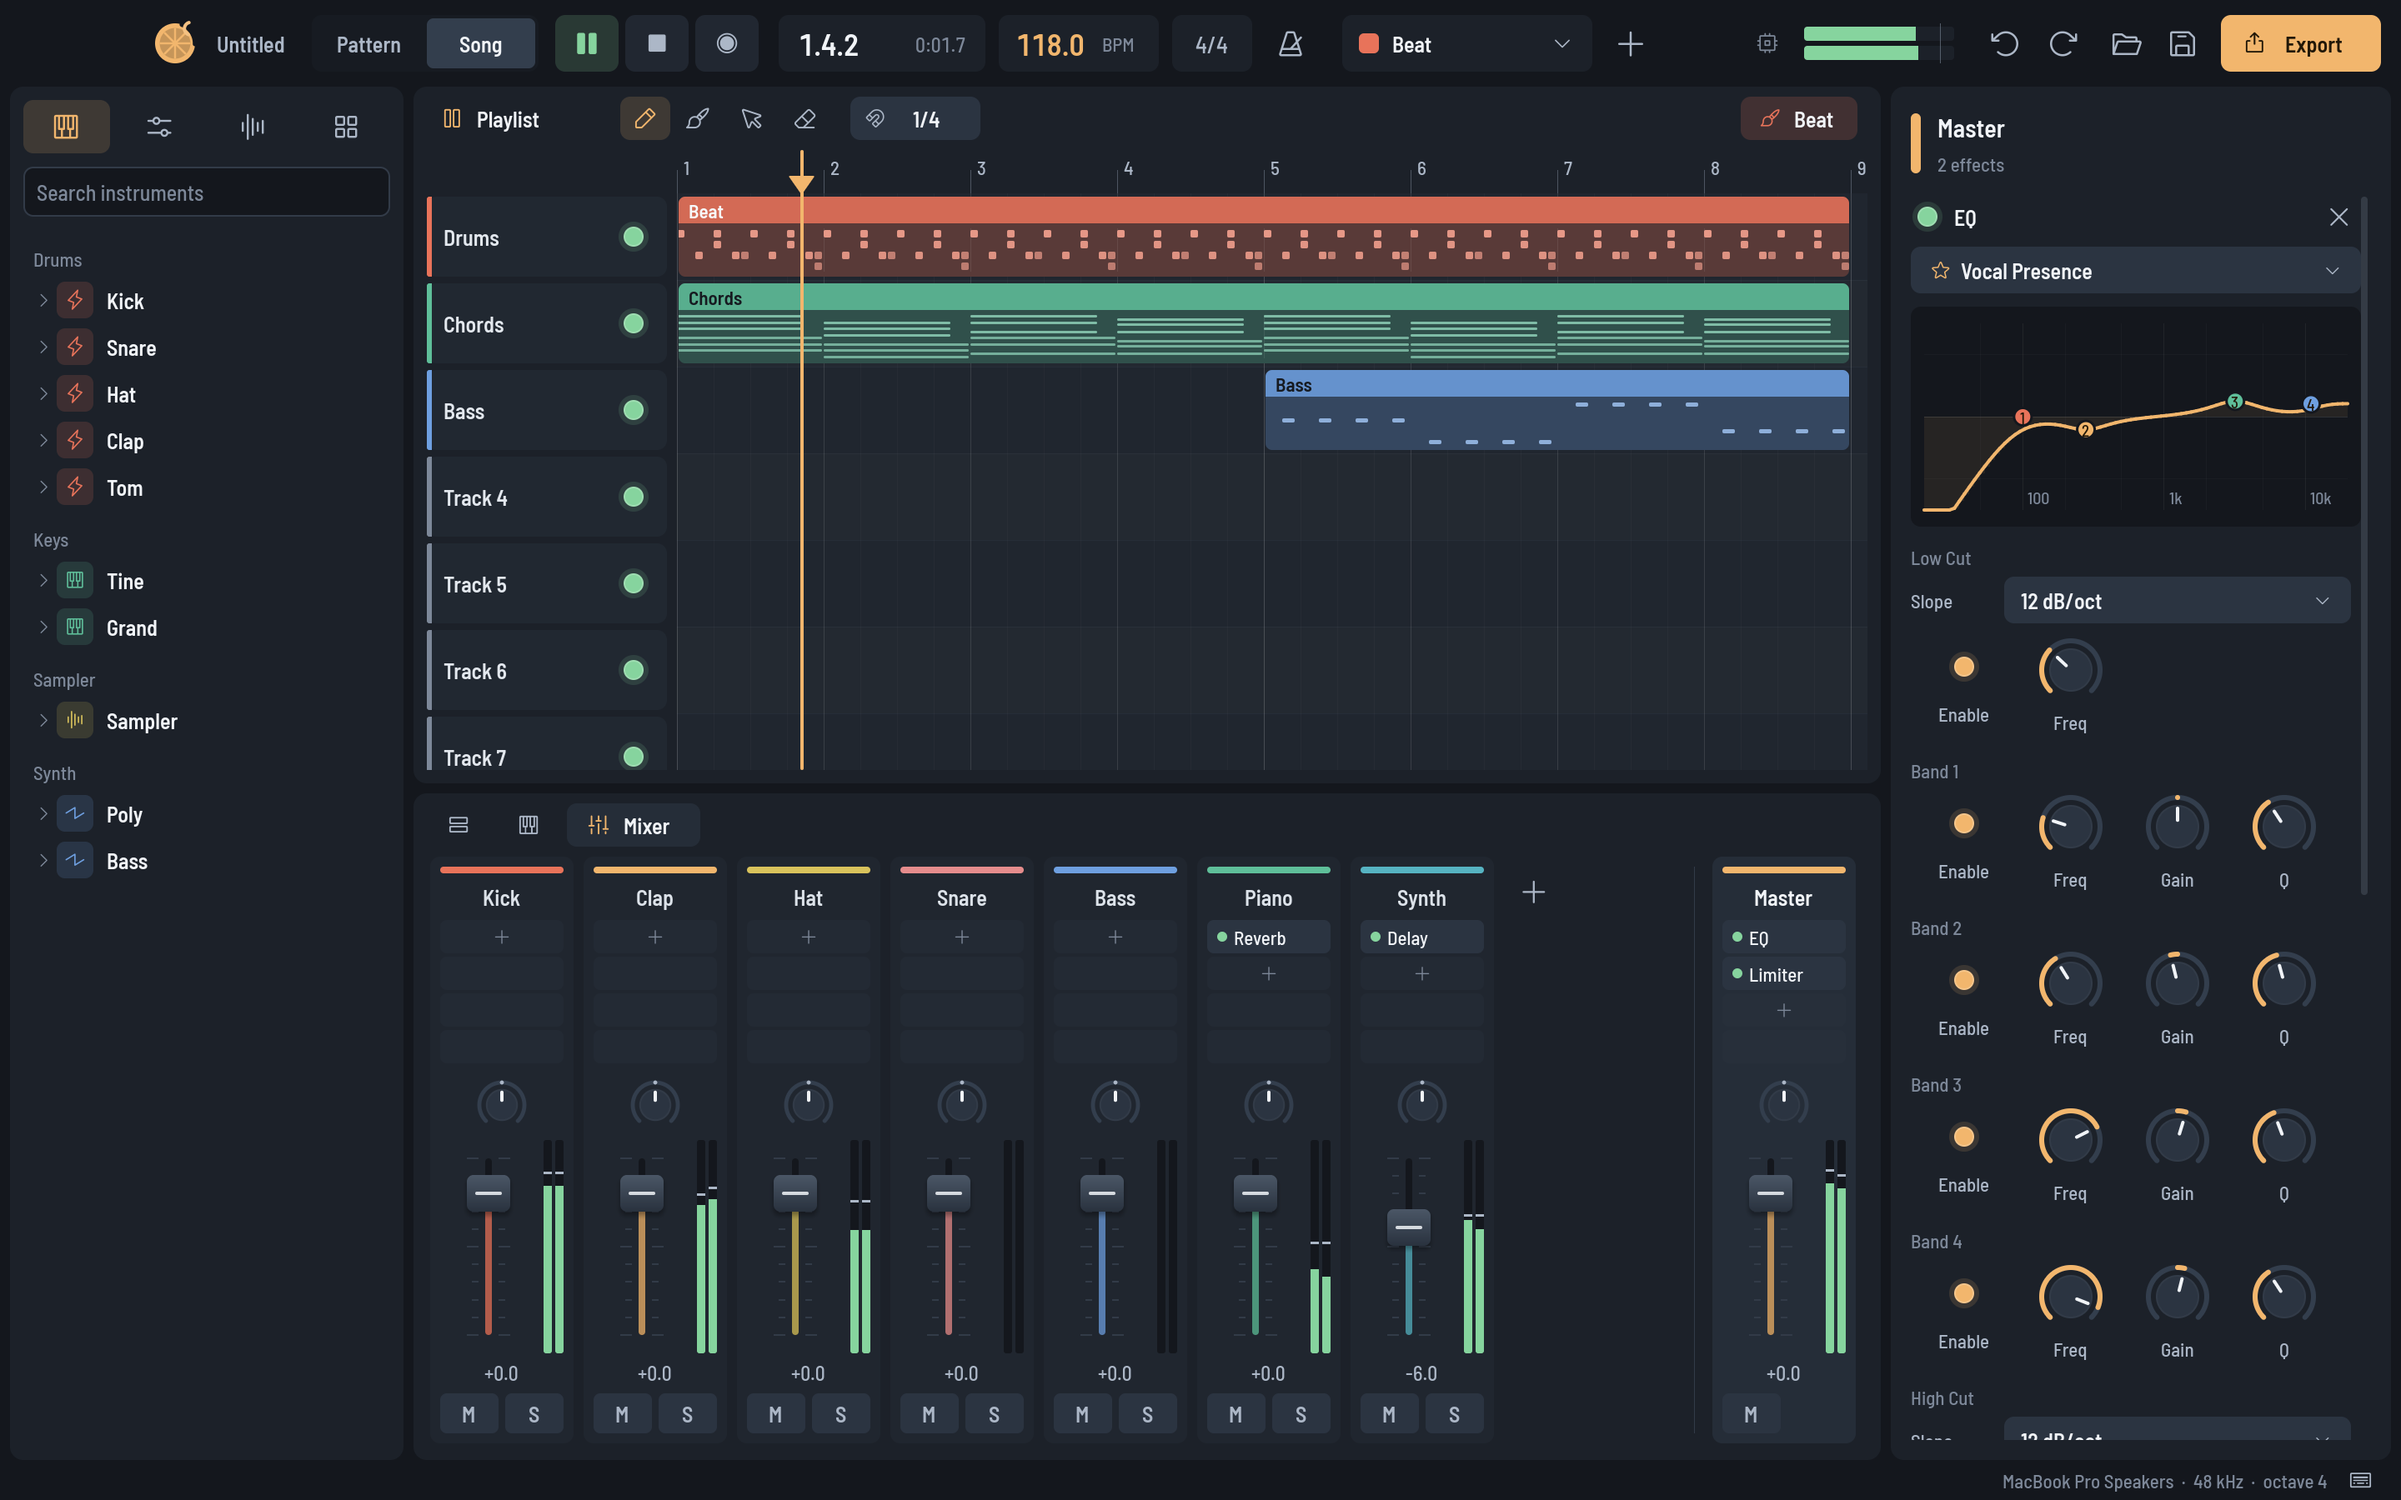
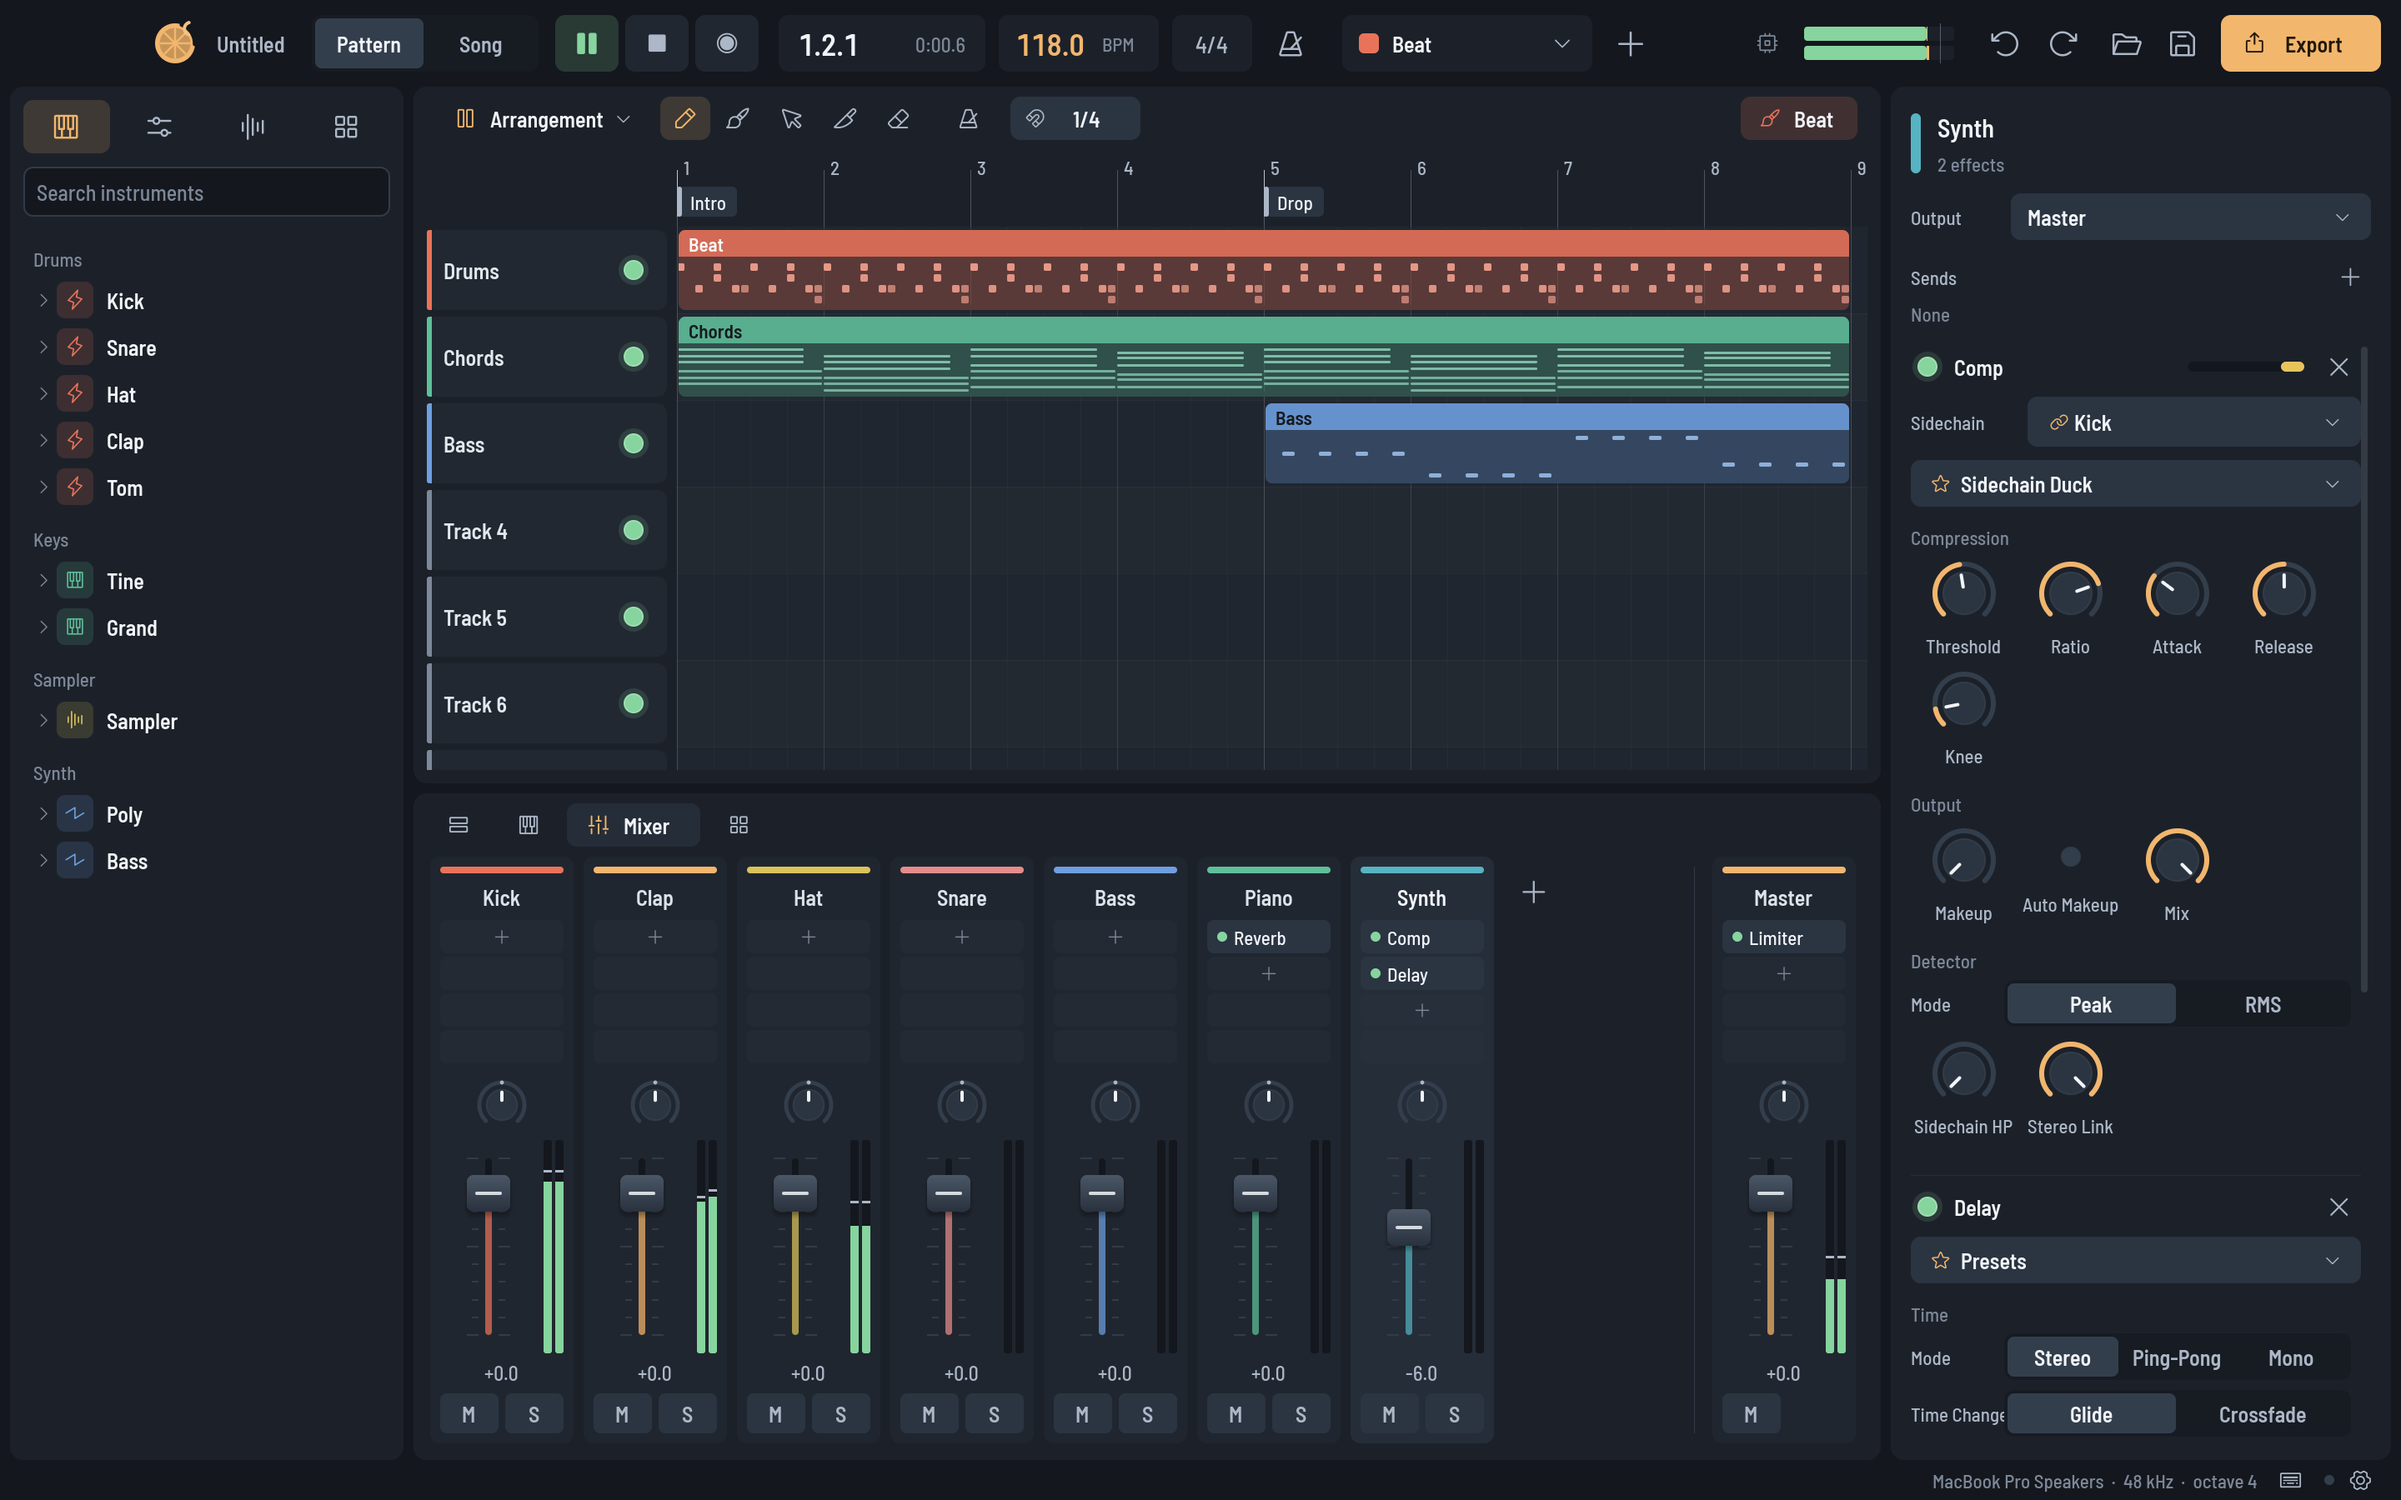
Refresh the README screenshots

diff --git a/README.md b/README.md
@@ -46,9 +46,13 @@ effects. There is no web view.
   undo history.
 - Screen reader support through AccessKit and keyboard focus traversal.
 
-| Piano Roll with a scale | Mixer and EQ |
+| Piano Roll with a scale | Mixer with a sidechain duck |
 | --- | --- |
 | ![Piano Roll](docs/images/piano-roll.png) | ![Mixer](docs/images/mixer.png) |
+
+| Performance with tempo changes |
+| --- |
+| ![Performance view](docs/images/perform.png) |
 
 ## Build
 
